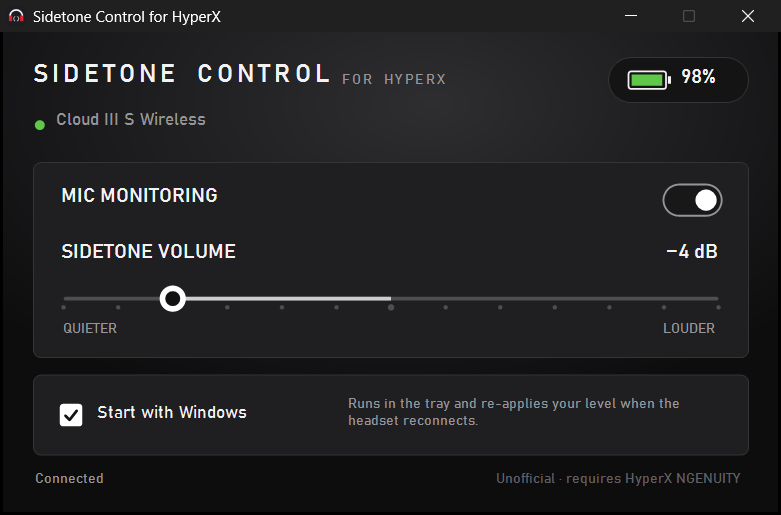
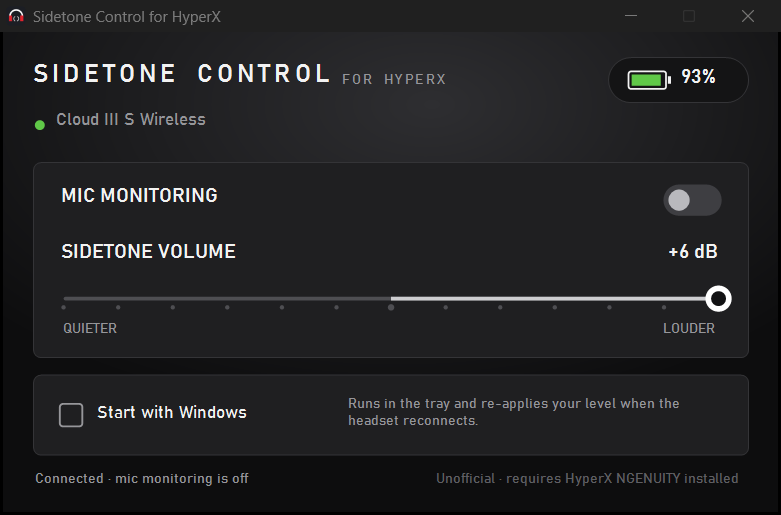
Sidetone Control for HyperX 1.3.0: work without NGENUITY open
Start NGENUITY's headset service in the background when NGENUITY is closed,
hand it over when NGENUITY opens, and clean up child processes on exit.

diff --git a/src/App.cs b/src/App.cs
@@ -16,9 +16,9 @@ using Microsoft.Win32;
 [assembly: AssemblyCompany("Jakob Hüttner")]
 [assembly: AssemblyProduct("Sidetone Control for HyperX")]
 [assembly: AssemblyCopyright("© 2026 Jakob Hüttner")]
-[assembly: AssemblyVersion("1.2.0.0")]
-[assembly: AssemblyFileVersion("1.2.0.0")]
-[assembly: AssemblyInformationalVersion("1.2.0")]
+[assembly: AssemblyVersion("1.3.0.0")]
+[assembly: AssemblyFileVersion("1.3.0.0")]
+[assembly: AssemblyInformationalVersion("1.3.0")]
 
 // Sidetone Control: the UI. Runs on the .NET Framework that ships with Windows and drives
 // SidetoneHelper (embedded in this exe), which runs on NGENUITY's .NET runtime and talks to
@@ -194,6 +194,83 @@ static class Settings
     }
 }
 
+// A Windows job object that kills every process put into it when Sidetone Control exits, even after a crash,
+// so the helper and a headset service we started never outlive the app.
+static class ChildJob
+{
+    [StructLayout(LayoutKind.Sequential)]
+    struct BasicLimits
+    {
+        public long PerProcessUserTimeLimit, PerJobUserTimeLimit;
+        public uint LimitFlags;
+        public UIntPtr MinimumWorkingSetSize, MaximumWorkingSetSize;
+        public uint ActiveProcessLimit;
+        public UIntPtr Affinity;
+        public uint PriorityClass, SchedulingClass;
+    }
+
+    [StructLayout(LayoutKind.Sequential)]
+    struct ExtendedLimits
+    {
+        public BasicLimits Basic;
+        public ulong ReadOps, WriteOps, OtherOps, ReadBytes, WriteBytes, OtherBytes; // IO_COUNTERS
+        public UIntPtr ProcessMemoryLimit, JobMemoryLimit, PeakProcessMemoryUsed, PeakJobMemoryUsed;
+    }
+
+    [DllImport("kernel32.dll", CharSet = CharSet.Unicode)] static extern IntPtr CreateJobObject(IntPtr attributes, string name);
+    [DllImport("kernel32.dll")] static extern bool SetInformationJobObject(IntPtr job, int infoClass, ref ExtendedLimits info, int size);
+    [DllImport("kernel32.dll")] static extern bool AssignProcessToJobObject(IntPtr job, IntPtr process);
+
+    const int ExtendedLimitInformation = 9;
+    const uint KillOnJobClose = 0x2000;
+    static readonly IntPtr Job = Create();
+
+    static IntPtr Create()
+    {
+        var job = CreateJobObject(IntPtr.Zero, null);
+        var info = new ExtendedLimits();
+        info.Basic.LimitFlags = KillOnJobClose;
+        SetInformationJobObject(job, ExtendedLimitInformation, ref info, Marshal.SizeOf(typeof(ExtendedLimits)));
+        return job; // intentionally never closed: Windows closes it when this process ends
+    }
+
+    public static void Add(Process p)
+    {
+        try { AssignProcessToJobObject(Job, p.Handle); } catch { }
+    }
+}
+
+// Lets Sidetone Control work while the NGENUITY window is closed: if neither NGENUITY nor its headset service
+// is running, start that service ourselves, hidden, exactly as NGENUITY does ("hxn-srv-communication-hub.exe server").
+// When NGENUITY is opened later it ends this copy and starts its own, and the helper simply reconnects.
+static class HubLauncher
+{
+    const string HubName = "hxn-srv-communication-hub";
+    static Process started;
+    static DateTime lastStart = DateTime.MinValue;
+
+    public static bool StartedByUs { get { return started != null && !started.HasExited; } }
+
+    // Returns true if a service is running or was just started (the caller should retry shortly).
+    public static bool EnsureRunning()
+    {
+        if (Process.GetProcessesByName(HubName).Length > 0) return true;
+        if (Process.GetProcessesByName("NGENUITY").Length > 0) return true; // NGENUITY is about to start its own
+        var exe = Path.Combine(HelperProcess.NgenuityDir, "Assets", "Services", HubName + ".exe");
+        if (!File.Exists(exe)) return false;
+        if (DateTime.UtcNow - lastStart < TimeSpan.FromSeconds(15)) return true; // don't hammer a service that keeps failing
+        lastStart = DateTime.UtcNow;
+        started = Process.Start(new ProcessStartInfo(exe, "server")
+        {
+            UseShellExecute = false,
+            CreateNoWindow = true,
+            WorkingDirectory = Path.GetDirectoryName(exe)
+        });
+        ChildJob.Add(started);
+        return true;
+    }
+}
+
 // Starts SidetoneHelper on NGENUITY's .NET runtime and exchanges one line per command with it.
 class HelperProcess : IDisposable
 {
@@ -231,6 +308,7 @@ class HelperProcess : IDisposable
             WorkingDirectory = helperDir
         };
         process = Process.Start(psi);
+        ChildJob.Add(process);
         process.ErrorDataReceived += (s, e) => { };
         process.BeginErrorReadLine();
     }
@@ -780,7 +858,7 @@ class MainForm : Form
             g.DrawString(status, smallFont, b, 24 * k, 352 * k);
         using (var b = new SolidBrush(Theme.Dim))
         {
-            const string note = "Unofficial · requires HyperX NGENUITY";
+            const string note = "Unofficial · requires HyperX NGENUITY installed";
             var size = g.MeasureString(note, smallFont);
             g.DrawString(note, smallFont, b, ClientSize.Width - 24 * k - size.Width, 352 * k);
         }
@@ -866,7 +944,12 @@ class MainForm : Form
 
         var state = Parse(helper.Send("status"));
         if (state.Error != null) throw new Exception(state.Error);
-        if (!state.Hub) { Ui(() => { SetStatus("Waiting for NGENUITY and the headset dongle…", false); SetControlsEnabled(false); }); return; }
+        if (!state.Hub)
+        {
+            var starting = HubLauncher.EnsureRunning();
+            Ui(() => { SetStatus(starting ? "Connecting to the headset service…" : "HyperX NGENUITY's headset service was not found.", false); SetControlsEnabled(false); });
+            return;
+        }
         if (!state.Headset) { Ui(() => { SetStatus("Headset is off or not connected.", false); SetControlsEnabled(false); }); return; }
 
         var level = state.Level;

diff --git a/msix/STORE-SUBMISSION.md b/msix/STORE-SUBMISSION.md
@@ -1,11 +1,11 @@
-# Publishing: Sidetone Control for HyperX 1.2.0
+# Publishing: Sidetone Control for HyperX 1.3.0
 
 The release folder holds:
 
 | File | Use |
 |---|---|
-| `SidetoneControlForHyperX-1.2.0.zip` | Direct download (GitHub release, website). Contains `SidetoneControl.exe` and `README.txt`. |
-| `SidetoneControlForHyperX-1.2.0.0-x64.msix` | Microsoft Store upload. **Rebuild it after step 1 below**, because it still has placeholder identity values. |
+| `SidetoneControlForHyperX-1.3.0.zip` | Direct download (GitHub release, website). Contains `SidetoneControl.exe` and `README.txt`. |
+| `SidetoneControlForHyperX-1.3.0.0-x64.msix` | Microsoft Store upload. Built with your Partner Center identity. |
 | `store-screenshot-1920x1080.png` | Store listing screenshot. |
 | `PRIVACY.md` | Privacy policy text. Host it somewhere public, such as a GitHub repo, and paste the URL into Partner Center. |
 | `SHA256SUMS.txt` | Checksums, so downloaders can verify the files. |
@@ -25,7 +25,7 @@ For every update, raise the version in `src\App.cs`, `build.ps1` and `build-msix
 - **Pricing:** Free. Markets: all.
 - **Category:** Utilities & tools.
 - **Privacy policy URL:** the hosted `PRIVACY.md`.
-- **System requirements:** HyperX NGENUITY desktop app and a HyperX Cloud III S Wireless headset.
+- **System requirements:** HyperX NGENUITY desktop app installed and a HyperX Cloud III S Wireless headset.
 - **Age rating:** answer "no" to every question.
 - **Restricted capability `runFullTrust`.** Justification:
   > Sidetone Control for HyperX is a Win32 desktop app (Windows Forms). It needs full trust to start a helper process
@@ -45,7 +45,7 @@ For every update, raise the version in `src\App.cs`, `build.ps1` and `build-msix
 > - Battery level at a glance
 > - Optional start with Windows: runs quietly in the tray and restores your level whenever the headset reconnects
 >
-> Requires the HyperX NGENUITY desktop app from hyperx.com, installed and running, and a HyperX Cloud III S Wireless headset.
+> Requires the HyperX NGENUITY desktop app from hyperx.com to be installed (it does not need to be open) and a HyperX Cloud III S Wireless headset.
 >
 > Unofficial community tool. Not affiliated with, endorsed by, or supported by HyperX or HP Inc.
 > HyperX and NGENUITY are trademarks of HP Inc.

diff --git a/README.md b/README.md
@@ -17,7 +17,7 @@ unlike software monitoring such as Windows "Listen to this device" or VoiceMeete
 
 ## Requirements
 - Windows 10 (1809 or newer) or Windows 11
-- HyperX NGENUITY desktop app (from [hyperx.com](https://hyperx.com)), installed and running
+- HyperX NGENUITY desktop app (from [hyperx.com](https://hyperx.com)) installed. It does not need to be open: if NGENUITY is closed, Sidetone Control starts its headset service in the background by itself.
 - HyperX Cloud III S Wireless connected through its USB dongle
 
 ## Download
@@ -27,6 +27,8 @@ publisher. Choose **More info → Run anyway**. Compare the file with `SHA256SUM
 
 ## How it works
 NGENUITY consists of a UI and a local background service (`hxn-srv-communication-hub`) that talks to the headset.
+If NGENUITY is closed, Sidetone Control starts that service itself (hidden) and stops it again on exit; if you open
+NGENUITY, it replaces the service with its own and Sidetone Control reconnects automatically.
 Sidetone Control starts a small helper on the .NET runtime that NGENUITY installs. The helper uses NGENUITY's own
 `CommunicationHubManager` to send the same `AudioInputMonitoringLevel` command that NGENUITY has built in for
 this headset but does not show in its UI.
